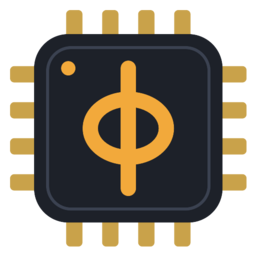
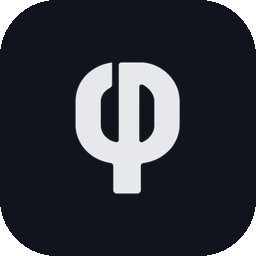
Paint the configurator in the splash colours and replace the rainbow mark with the white phi, so the window matches the firmware.

diff --git a/config/renderer/styles.css b/config/renderer/styles.css
@@ -1,25 +1,26 @@
 :root {
-	--bg: #f5f3ee;
-	--card: #ffffff;
-	--line: #e7e3da;
-	--line-strong: #d6d0c4;
-	--text: #1d2026;
-	--muted: #6b707a;
-	--faint: #9aa0a8;
-	--side: #14171d;
-	--side-2: #1e222a;
-	--side-text: #c4c8cf;
-	--accent: #f2a93b;
-	--accent-strong: #d98b12;
-	--accent-soft: #fdf1dc;
-	--ok: #2e8a57;
-	--ok-soft: #e3f3e9;
-	--warn: #b7791f;
-	--warn-soft: #fbf0d9;
-	--err: #c43b3b;
-	--err-soft: #fbe6e4;
-	--info: #3567c9;
-	--info-soft: #e5edfb;
+	color-scheme: dark;
+	--bg: #10141C;
+	--card: #1E2430;
+	--line: #3A4250;
+	--line-strong: #4A5568;
+	--text: #E8EAEE;
+	--muted: #8A92A0;
+	--faint: #6E7684;
+	--side: #0C1016;
+	--side-2: #1E2430;
+	--side-text: #C4C8CF;
+	--accent: #2EB88A;
+	--accent-strong: #249E76;
+	--accent-soft: rgba(46, 184, 138, 0.18);
+	--ok: #3dca7a;
+	--ok-soft: rgba(61, 202, 122, 0.16);
+	--warn: #E0A44A;
+	--warn-soft: rgba(224, 164, 74, 0.16);
+	--err: #E15B5B;
+	--err-soft: rgba(225, 91, 91, 0.16);
+	--info: #6B93E0;
+	--info-soft: rgba(107, 147, 224, 0.16);
 	--mono: "JetBrains Mono", "Fira Code", ui-monospace, "DejaVu Sans Mono", monospace;
 	--radius: 10px;
 }
@@ -41,14 +42,14 @@ code, .mono { font-family: var(--mono); font-size: 12px; }
 .stack { display: flex; flex-direction: column; gap: 14px; }
 
 .loading { height: 100%; display: grid; place-content: center; justify-items: center; gap: 14px; color: var(--muted); }
-.loading img { width: 72px; }
+.loading img { width: 52px; height: auto; }
 
 .app { display: grid; grid-template-columns: 240px 1fr; height: 100vh; }
 
 /* sidebar */
 .side { background: var(--side); color: var(--side-text); display: flex; flex-direction: column; gap: 22px; padding: 18px 14px; overflow-y: auto; }
 .brand { display: flex; align-items: center; gap: 11px; padding: 2px 6px; }
-.brand img { width: 40px; height: 40px; }
+.brand img { width: 26px; height: 34px; object-fit: contain; }
 .brand-name { font-size: 19px; font-weight: 750; color: #fff; letter-spacing: -0.02em; line-height: 1.1; }
 .brand-name span { color: var(--accent); }
 .brand-sub { font-size: 10.5px; color: #7d838e; text-transform: uppercase; letter-spacing: 0.12em; margin-top: 2px; }
@@ -75,10 +76,10 @@ code, .mono { font-family: var(--mono); font-size: 12px; }
 
 /* main */
 .main { display: flex; flex-direction: column; min-width: 0; min-height: 0; }
-.top { display: flex; align-items: center; gap: 12px; padding: 16px 28px; border-bottom: 1px solid var(--line); background: #fbfaf7; }
+.top { display: flex; align-items: center; gap: 12px; padding: 16px 28px; border-bottom: 1px solid var(--line); background: #2A3240; }
 .top h1 { font-size: 20px; margin: 0; letter-spacing: -0.015em; }
 .top p { margin: 2px 0 0; color: var(--muted); font-size: 12.5px; }
-.status { display: inline-flex; align-items: center; gap: 6px; padding: 5px 12px; border-radius: 99px; font-weight: 650; font-size: 12px; border: 0; background: #eeeae2; color: var(--muted); }
+.status { display: inline-flex; align-items: center; gap: 6px; padding: 5px 12px; border-radius: 99px; font-weight: 650; font-size: 12px; border: 0; background: #2A3240; color: var(--muted); }
 button.status { cursor: pointer; }
 .status::before { content: ""; width: 7px; height: 7px; border-radius: 50%; background: currentColor; }
 .status.ok { background: var(--ok-soft); color: var(--ok); }
@@ -88,15 +89,15 @@ button.status { cursor: pointer; }
 
 /* buttons */
 .btn { border: 1px solid var(--line-strong); background: var(--card); padding: 7px 14px; border-radius: 8px; cursor: pointer; font-weight: 550; white-space: nowrap; }
-.btn:hover:not(:disabled) { border-color: #b9b1a2; }
+.btn:hover:not(:disabled) { border-color: var(--faint); }
 .btn:disabled { opacity: 0.45; cursor: not-allowed; }
-.btn.primary { background: var(--text); color: #fff; border-color: var(--text); }
-.btn.primary:hover:not(:disabled) { background: #000; }
-.btn.accent { background: var(--accent); border-color: var(--accent-strong); color: #2b1a00; }
-.btn.accent:hover:not(:disabled) { background: #f5b552; }
+.btn.primary { background: var(--accent); color: #06241a; border-color: var(--accent-strong); }
+.btn.primary:hover:not(:disabled) { background: #3dcaa0; }
+.btn.accent { background: var(--accent); border-color: var(--accent-strong); color: #06241a; }
+.btn.accent:hover:not(:disabled) { background: #3dcaa0; }
 .btn.small { padding: 4px 10px; font-size: 12px; }
 .btn.ghost { border-color: transparent; background: transparent; color: var(--muted); }
-.btn.ghost:hover:not(:disabled) { background: #f1eee7; border-color: transparent; color: var(--text); }
+.btn.ghost:hover:not(:disabled) { background: var(--side-2); border-color: transparent; color: var(--text); }
 .btn.danger:hover:not(:disabled) { color: var(--err); background: var(--err-soft); }
 
 /* sections, cards */
@@ -124,11 +125,11 @@ button.status { cursor: pointer; }
 .choice-title { font-weight: 650; font-size: 14px; display: flex; align-items: center; gap: 8px; flex-wrap: wrap; }
 .choice-sub { color: var(--muted); font-size: 12.5px; }
 .choice-meta { display: flex; flex-wrap: wrap; gap: 6px; align-items: center; }
-.chip { font-family: var(--mono); font-size: 11px; background: #f1eee7; color: #5b5f67; border-radius: 6px; padding: 2px 7px; display: inline-flex; align-items: center; gap: 4px; }
-.chip.define { background: #eef2fb; color: #3b5590; }
+.chip { font-family: var(--mono); font-size: 11px; background: #2A3240; color: var(--side-text); border-radius: 6px; padding: 2px 7px; display: inline-flex; align-items: center; gap: 4px; }
+.chip.define { background: var(--info-soft); color: #b7c9f2; }
 .chip.removable button { border: 0; background: none; padding: 0 0 0 2px; cursor: pointer; color: var(--faint); font-size: 13px; line-height: 1; }
 .chip.removable button:hover { color: var(--err); }
-.badge { font-size: 10.5px; font-weight: 700; padding: 2px 8px; border-radius: 99px; text-transform: uppercase; letter-spacing: 0.04em; background: #eeeae2; color: var(--muted); white-space: nowrap; }
+.badge { font-size: 10.5px; font-weight: 700; padding: 2px 8px; border-radius: 99px; text-transform: uppercase; letter-spacing: 0.04em; background: #2A3240; color: var(--muted); white-space: nowrap; }
 .badge.accent { background: var(--accent-soft); color: var(--accent-strong); }
 .badge.ok { background: var(--ok-soft); color: var(--ok); }
 .badge.warn { background: var(--warn-soft); color: var(--warn); }
@@ -139,16 +140,16 @@ button.status { cursor: pointer; }
 .fields { display: grid; grid-template-columns: repeat(auto-fill, minmax(180px, 1fr)); gap: 12px 16px; }
 .fields.two { grid-template-columns: 1fr 1fr; }
 .field { display: flex; flex-direction: column; gap: 4px; min-width: 0; }
-.field-label { font-size: 12px; font-weight: 600; color: #3a3e46; display: flex; gap: 6px; align-items: baseline; }
+.field-label { font-size: 12px; font-weight: 600; color: var(--text); display: flex; gap: 6px; align-items: baseline; }
 .field-label em { font-style: normal; color: var(--faint); font-weight: 500; font-size: 11px; }
 .field-label em.changed { color: var(--accent-strong); }
 .field-label .req { color: var(--accent-strong); }
 .field-name { font-size: 10.5px; color: var(--faint); }
 .field input:not([type=checkbox]), .field select, .input {
-	border: 1px solid var(--line-strong); border-radius: 7px; padding: 6px 9px; background: #fff; min-width: 0; width: 100%;
+	border: 1px solid var(--line-strong); border-radius: 7px; padding: 6px 9px; background: var(--bg); min-width: 0; width: 100%;
 }
-.field input:focus, .field select:focus, .input:focus, .name-input:focus { outline: none; border-color: var(--accent-strong); box-shadow: 0 0 0 3px var(--accent-soft); }
-.field.invalid input, .field.invalid select { border-color: var(--err); background: #fffafa; }
+.field input:focus, .field select:focus, .input:focus, .name-input:focus { outline: none; border-color: var(--accent); box-shadow: 0 0 0 3px var(--accent-soft); }
+.field.invalid input, .field.invalid select { border-color: var(--err); background: #2a1618; }
 .field-error { color: var(--err); font-size: 11.5px; }
 .field-error.block { margin: -4px 0 10px; }
 .field.check { flex-direction: row; align-items: center; gap: 9px; align-self: end; padding-bottom: 18px; }
@@ -156,7 +157,7 @@ button.status { cursor: pointer; }
 .hint { color: var(--muted); font-size: 12px; }
 .card .hint { margin: 10px 0 0; }
 
-input.switch { appearance: none; width: 34px; height: 20px; border-radius: 99px; background: #d9d4ca; position: relative; cursor: pointer; transition: background 0.15s; flex: none; margin: 0; }
+input.switch { appearance: none; width: 34px; height: 20px; border-radius: 99px; background: var(--line-strong); position: relative; cursor: pointer; transition: background 0.15s; flex: none; margin: 0; }
 input.switch::after { content: ""; position: absolute; top: 2px; left: 2px; width: 16px; height: 16px; border-radius: 50%; background: #fff; box-shadow: 0 1px 2px rgba(0, 0, 0, 0.25); transition: transform 0.15s; }
 input.switch:checked { background: var(--accent-strong); }
 input.switch:checked::after { transform: translateX(14px); }
@@ -185,17 +186,17 @@ input.switch:disabled { opacity: 0.55; cursor: not-allowed; }
 /* kernel */
 .ram-head { display: flex; align-items: baseline; gap: 8px; margin-bottom: 10px; }
 .ram-head strong { font-size: 18px; }
-.ram { display: flex; height: 14px; border-radius: 99px; overflow: hidden; background: #ece8df; }
+.ram { display: flex; height: 14px; border-radius: 99px; overflow: hidden; background: #2A3240; }
 .ram span { display: block; height: 100%; }
-.ram span + span { box-shadow: inset 2px 0 0 #fff; }
+.ram span + span { box-shadow: inset 2px 0 0 var(--bg); }
 .ram-legend { display: flex; gap: 18px; flex-wrap: wrap; margin-top: 10px; font-size: 12px; color: var(--muted); }
 .ram-legend strong { color: var(--text); }
 .swatch { display: inline-block; width: 10px; height: 10px; border-radius: 3px; margin-right: 6px; vertical-align: -1px; flex: none; }
-.swatch.reserved { background: repeating-linear-gradient(135deg, #d8d3c9 0 3px, #ebe7df 3px 6px); }
+.swatch.reserved { background: repeating-linear-gradient(135deg, #3A4250 0 3px, #2A3240 3px 6px); }
 .swatch.conflict { background: var(--err); }
-.swatch.fn { background: #fff; box-shadow: inset 0 0 0 1.5px var(--accent); }
+.swatch.fn { background: transparent; box-shadow: inset 0 0 0 1.5px var(--accent); }
 .module { display: flex; flex-direction: column; gap: 10px; }
-.module.off { background: #fbfaf7; }
+.module.off { background: #161b26; }
 .module.off .module-title, .module.off .module-desc { color: var(--muted); }
 .module-head { display: flex; align-items: center; gap: 10px; }
 .module-title { font-weight: 650; font-size: 14px; }
@@ -206,15 +207,15 @@ input.switch:disabled { opacity: 0.55; cursor: not-allowed; }
 /* drivers */
 .split { display: grid; grid-template-columns: 270px 1fr; gap: 22px; align-items: start; }
 .list { background: var(--card); border: 1px solid var(--line); border-radius: var(--radius); overflow: hidden; position: sticky; top: 0; }
-.list-group { padding: 8px 14px 5px; font-size: 10.5px; text-transform: uppercase; letter-spacing: 0.1em; color: var(--faint); background: #faf8f4; border-bottom: 1px solid var(--line); }
+.list-group { padding: 8px 14px 5px; font-size: 10.5px; text-transform: uppercase; letter-spacing: 0.1em; color: var(--faint); background: #2A3240; border-bottom: 1px solid var(--line); }
 .list-row { display: flex; align-items: center; gap: 11px; padding: 9px 14px; border-bottom: 1px solid var(--line); cursor: pointer; }
 .list > div:last-child .list-row:last-child { border-bottom: 0; }
-.list-row:hover { background: #faf8f4; }
+.list-row:hover { background: #2A3240; }
 .list-row.active { background: var(--accent-soft); }
 .list-text { min-width: 0; }
 .list-row .name { font-weight: 600; }
 .list-row .sub { font-size: 11px; color: var(--faint); }
-.count { margin-left: auto; font-size: 11px; font-weight: 650; min-width: 22px; text-align: center; padding: 1px 7px; border-radius: 99px; background: #eeeae2; color: var(--muted); }
+.count { margin-left: auto; font-size: 11px; font-weight: 650; min-width: 22px; text-align: center; padding: 1px 7px; border-radius: 99px; background: #2A3240; color: var(--muted); }
 .count.err { background: var(--err); color: #fff; }
 .detail-head { display: flex; gap: 14px; margin-bottom: 22px; }
 .detail-head h2 { margin: 0; font-size: 21px; letter-spacing: -0.015em; display: flex; align-items: center; gap: 8px; }
@@ -233,15 +234,15 @@ input.switch:disabled { opacity: 0.55; cursor: not-allowed; }
 .pins .head { font-size: 10px; color: var(--faint); text-align: center; text-transform: uppercase; letter-spacing: 0.08em; padding-bottom: 2px; }
 .port { font-family: var(--mono); font-size: 12px; font-weight: 700; display: flex; align-items: center; gap: 6px; }
 .port .irq { font-size: 9px; font-weight: 700; background: var(--info-soft); color: var(--info); padding: 1px 4px; border-radius: 4px; }
-.pin { position: relative; height: 46px; border-radius: 7px; border: 1px solid var(--line); background: #fbfaf7; cursor: pointer; display: flex; flex-direction: column; justify-content: center; align-items: center; padding: 2px 4px; min-width: 0; line-height: 1.15; }
+.pin { position: relative; height: 46px; border-radius: 7px; border: 1px solid var(--line); background: var(--bg); cursor: pointer; display: flex; flex-direction: column; justify-content: center; align-items: center; padding: 2px 4px; min-width: 0; line-height: 1.15; }
 .pin:hover { border-color: var(--line-strong); }
 .pin .bit { position: absolute; top: 3px; left: 5px; font-family: var(--mono); font-size: 9px; color: var(--faint); }
 .pin .tag { font-weight: 650; font-size: 11px; max-width: 100%; overflow: hidden; text-overflow: ellipsis; white-space: nowrap; }
 .pin .signal { font-size: 9.5px; opacity: 0.75; text-transform: uppercase; letter-spacing: 0.04em; }
-.pin.fn { box-shadow: inset 0 0 0 1.5px var(--accent-soft); border-color: #f1d9ae; }
-.pin.used { background: hsl(var(--hue) 70% 93%); border-color: hsl(var(--hue) 45% 66%); color: hsl(var(--hue) 50% 26%); }
-.pin.used .bit { color: hsl(var(--hue) 30% 50%); }
-.pin.reserved { background: repeating-linear-gradient(135deg, #efece6 0 6px, #e6e2da 6px 12px); color: #6d717a; }
+.pin.fn { box-shadow: inset 0 0 0 1.5px var(--accent-soft); border-color: var(--accent); }
+.pin.used { background: hsl(var(--hue) 36% 24%); border-color: hsl(var(--hue) 42% 42%); color: hsl(var(--hue) 55% 84%); }
+.pin.used .bit { color: hsl(var(--hue) 30% 70%); }
+.pin.reserved { background: repeating-linear-gradient(135deg, #2A3240 0 6px, #1A2030 6px 12px); color: var(--muted); }
 .pin.conflict { background: var(--err-soft); border-color: var(--err); color: var(--err); }
 .pin.selected { outline: 2px solid var(--text); outline-offset: 1px; }
 .pin.none { visibility: hidden; }
@@ -255,7 +256,7 @@ input.switch:disabled { opacity: 0.55; cursor: not-allowed; }
 .legend { display: flex; flex-direction: column; gap: 7px; font-size: 12.5px; }
 .legend-row { display: flex; align-items: center; }
 table.gates { width: 100%; border-collapse: collapse; font-size: 12.5px; }
-table.gates th { text-align: left; font-weight: 650; color: var(--muted); font-size: 10.5px; text-transform: uppercase; letter-spacing: 0.07em; padding: 9px 14px; border-bottom: 1px solid var(--line); background: #faf8f4; }
+table.gates th { text-align: left; font-weight: 650; color: var(--muted); font-size: 10.5px; text-transform: uppercase; letter-spacing: 0.07em; padding: 9px 14px; border-bottom: 1px solid var(--line); background: #2A3240; }
 table.gates td { padding: 8px 14px; border-bottom: 1px solid var(--line); }
 table.gates tr:last-child td { border-bottom: 0; }
 
@@ -283,5 +284,5 @@ pre.console .faint { color: #6c727d; }
 .all-clear .mark { width: 64px; height: 64px; margin: 0 auto 16px; border-radius: 50%; background: var(--ok-soft); color: var(--ok); display: grid; place-items: center; font-size: 30px; font-weight: 800; }
 .all-clear h2 { color: var(--text); margin: 0 0 4px; }
 
-.toast { position: fixed; right: 24px; bottom: 24px; max-width: 520px; background: var(--text); color: #fff; padding: 11px 16px; border-radius: 9px; box-shadow: 0 10px 30px rgba(0, 0, 0, 0.22); font-size: 13px; z-index: 10; }
+.toast { position: fixed; right: 24px; bottom: 24px; max-width: 520px; background: var(--card); color: var(--text); border: 1px solid var(--line); padding: 11px 16px; border-radius: 9px; box-shadow: 0 10px 30px rgba(0, 0, 0, 0.35); font-size: 13px; z-index: 10; }
 .toast.err { background: var(--err); }

diff --git a/config/renderer/views/Kernel.jsx b/config/renderer/views/Kernel.jsx
@@ -2,7 +2,7 @@ import { useState } from "react"
 import { bytes, useConfig } from "../state.js"
 import { Badge, Chip, Empty, Section, SettingField, Switch } from "../components/ui.jsx"
 
-const ramColors = ["#f2a93b", "#3b6fd8", "#2e8a57", "#a855c7", "#d1495b", "#0f9aa8"]
+const ramColors = ["#2EB88A", "#6B93E0", "#E0A44A", "#a855c7", "#E15B5B", "#0f9aa8"]
 
 function Ram() {
 	const { analysis } = useConfig()

diff --git a/config/main.js b/config/main.js
@@ -160,7 +160,7 @@ function createWindow() {
 		minWidth: 1080,
 		minHeight: 680,
 		title: "miniPhi config",
-		backgroundColor: "#f5f3ee",
+		backgroundColor: "#10141C",
 		icon: path.join(here, "assets", "icon.png"),
 		webPreferences: {
 			preload: path.join(here, "preload.cjs"),
